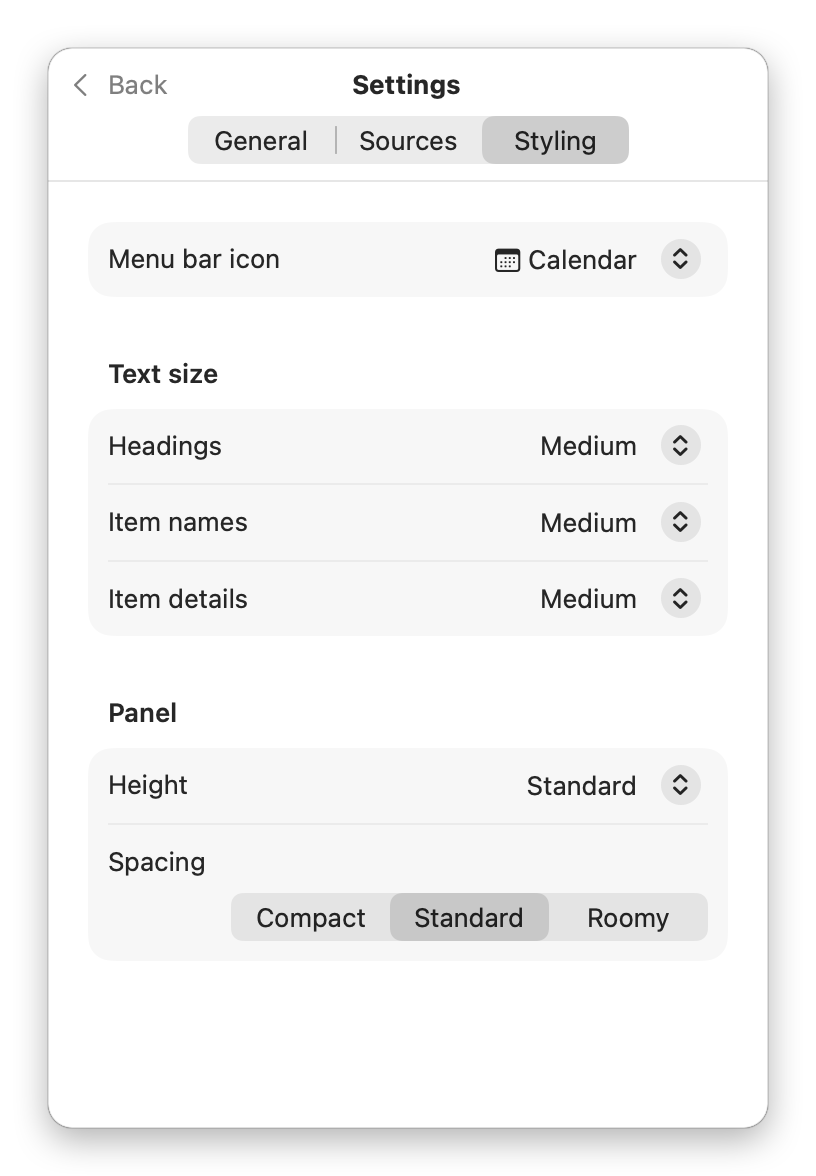
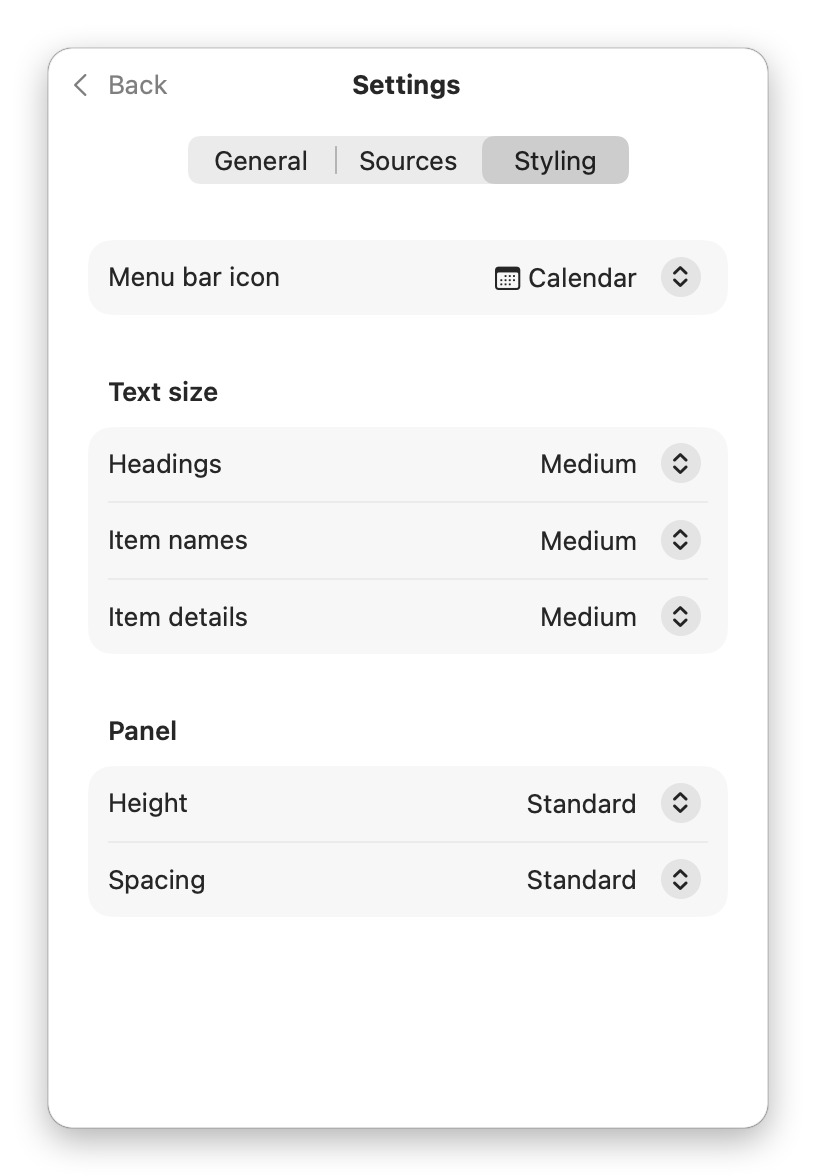
Settings tweaks: Spacing dropdown, more room above the switcher, no divider

diff --git a/Sources/machen/SettingsViews.swift b/Sources/machen/SettingsViews.swift
@@ -120,8 +120,8 @@ struct SettingsView: View {
             .pickerStyle(.segmented)
             .labelsHidden()
             .padding(.horizontal, 12)
-            .padding(.vertical, 8)
-            Divider()
+            .padding(.top, 18)
+            .padding(.bottom, 8)
             switch panel {
             case .general: general
             case .sources: sources
@@ -304,7 +304,6 @@ struct SettingsView: View {
                 Picker("Spacing", selection: $store.density) {
                     ForEach(RowDensity.allCases) { Text($0.label).tag($0) }
                 }
-                .pickerStyle(.segmented)
             }
         }
         .formStyle(.grouped)
